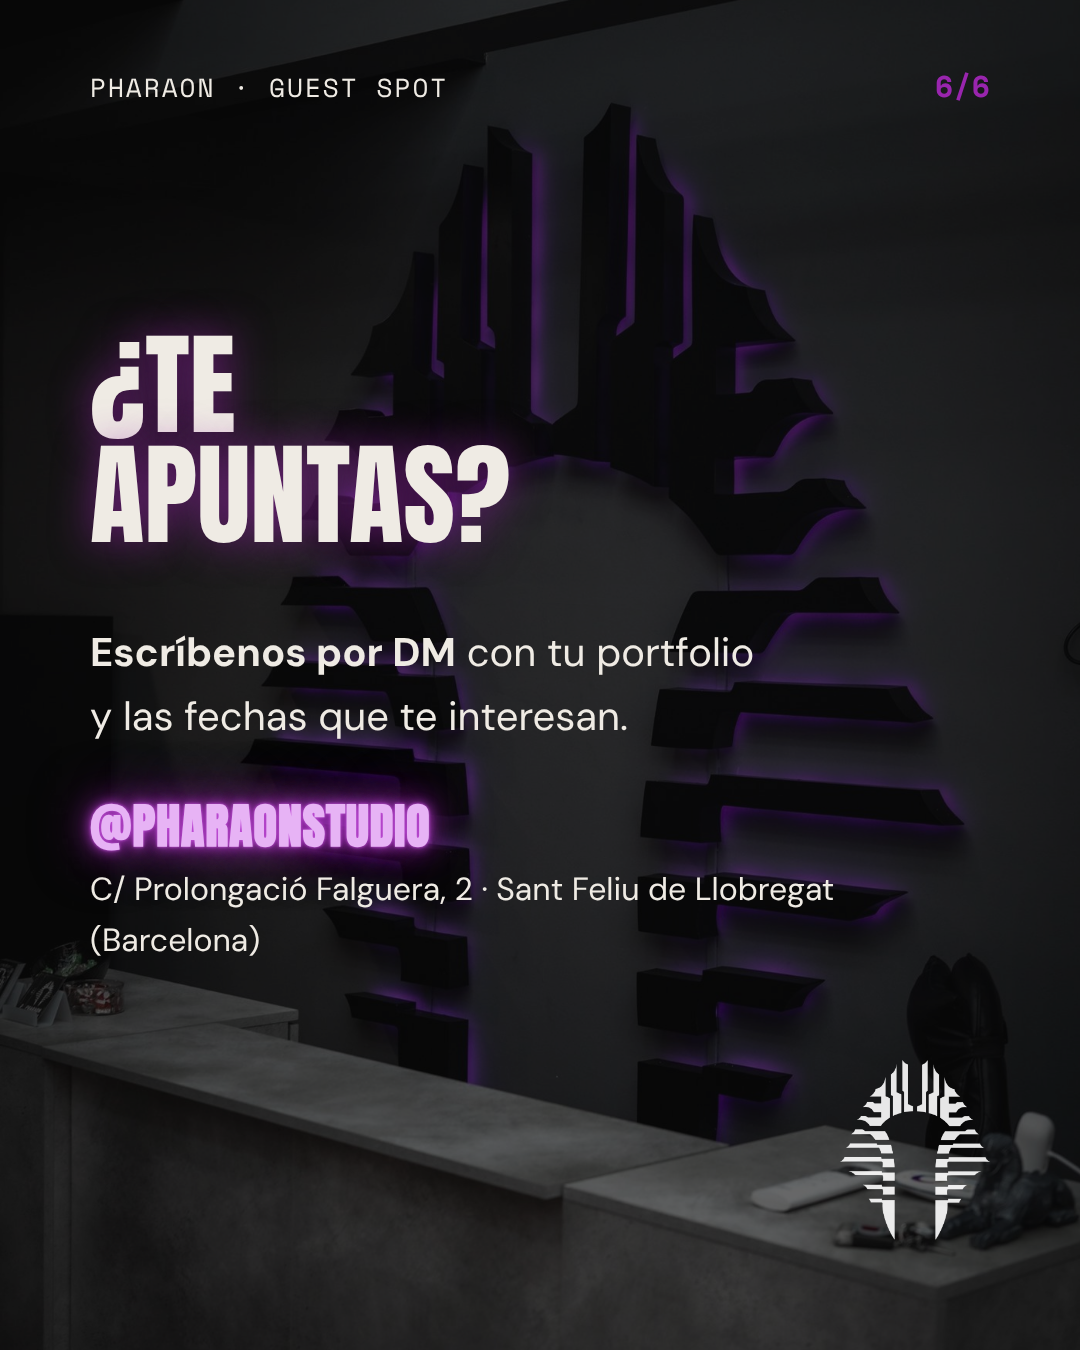
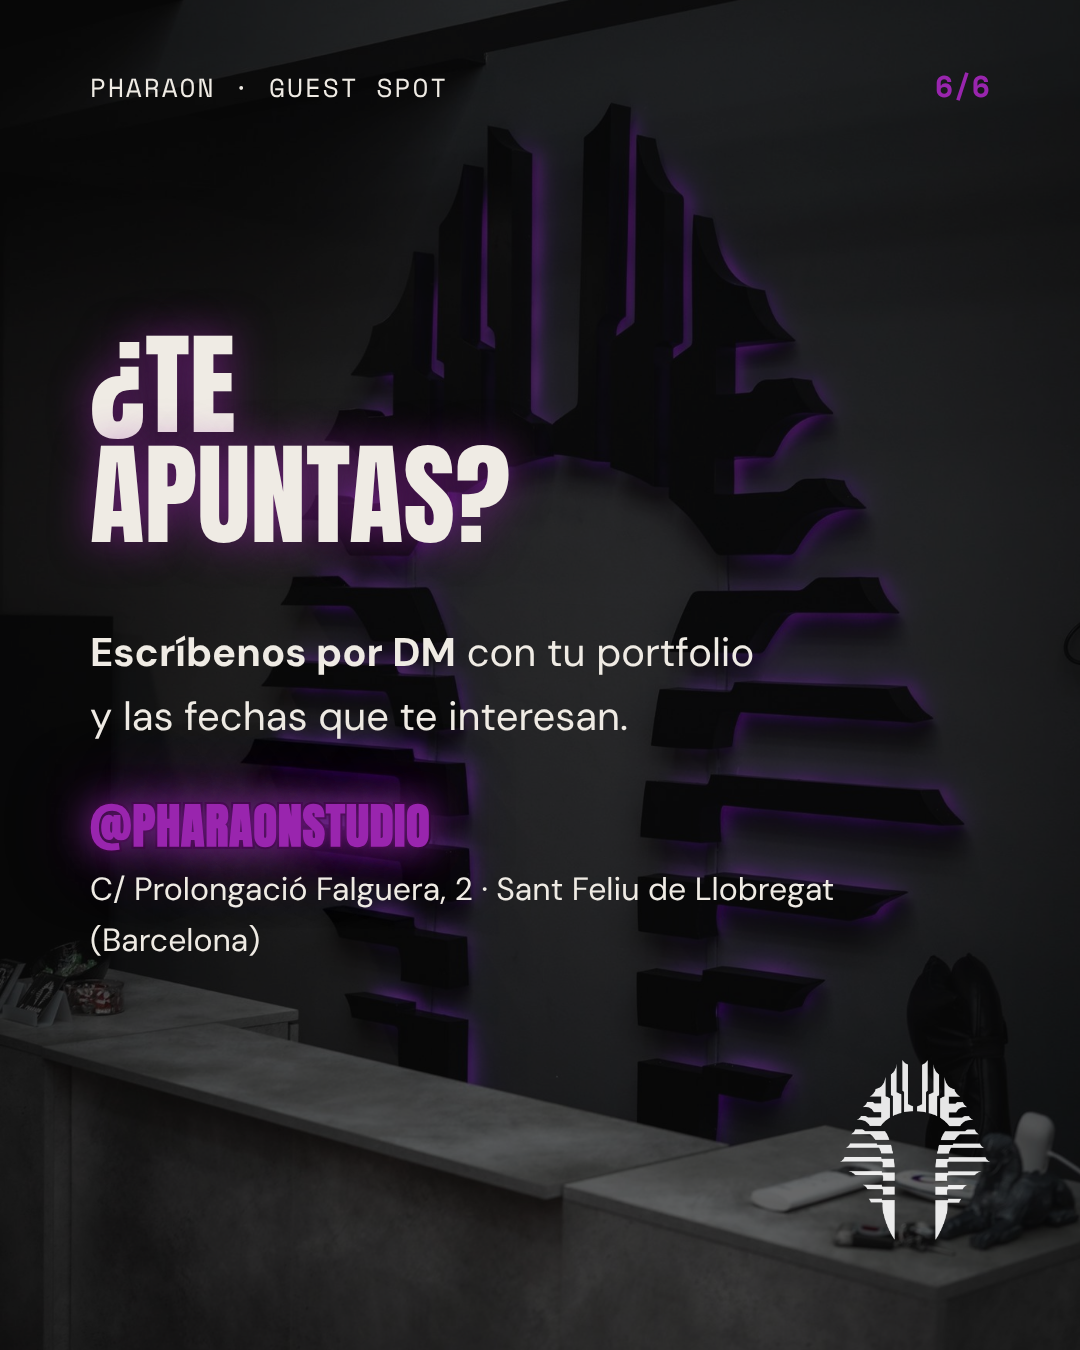
Guest spot: letras lila con su color original y resplandor detrás
Claude-Session: https://claude.ai/code/session_017Rsphfz7JrN2HBs3pyC4Qn

Changed region(s): [[0.0611, 0.5911, 0.4278, 0.6533]]

diff --git a/posts/guest/guest.html b/posts/guest/guest.html
@@ -16,7 +16,7 @@
 .chip { display: inline-block; border: 3px solid var(--morado); color: var(--hueso); font-family: 'Space Mono'; font-weight: 700; font-size: 30px; padding: 10px 22px; border-radius: 40px; margin: 0 14px 18px 0; }
 .brillo { text-shadow: 0 0 40px rgba(153,37,174,.65); }
 /* Resplandor neón en las palabras lila (petición del usuario) */
-.morado { color: #E7B3F5; text-shadow: 0 0 3px #C95AE0, 0 0 12px #B13BC8, 0 0 30px rgba(153,37,174,.85), 0 0 60px rgba(153,37,174,.55); }
+.morado { color: var(--morado); -webkit-text-stroke: 4px #12030f; paint-order: stroke fill; text-shadow: 0 0 36px rgba(170,50,200,.8), 0 0 80px rgba(153,37,174,.55); }
 .num { text-shadow: 0 0 6px rgba(201,90,224,.8), 0 0 18px rgba(153,37,174,.6); }
 </style></head><body>
 
